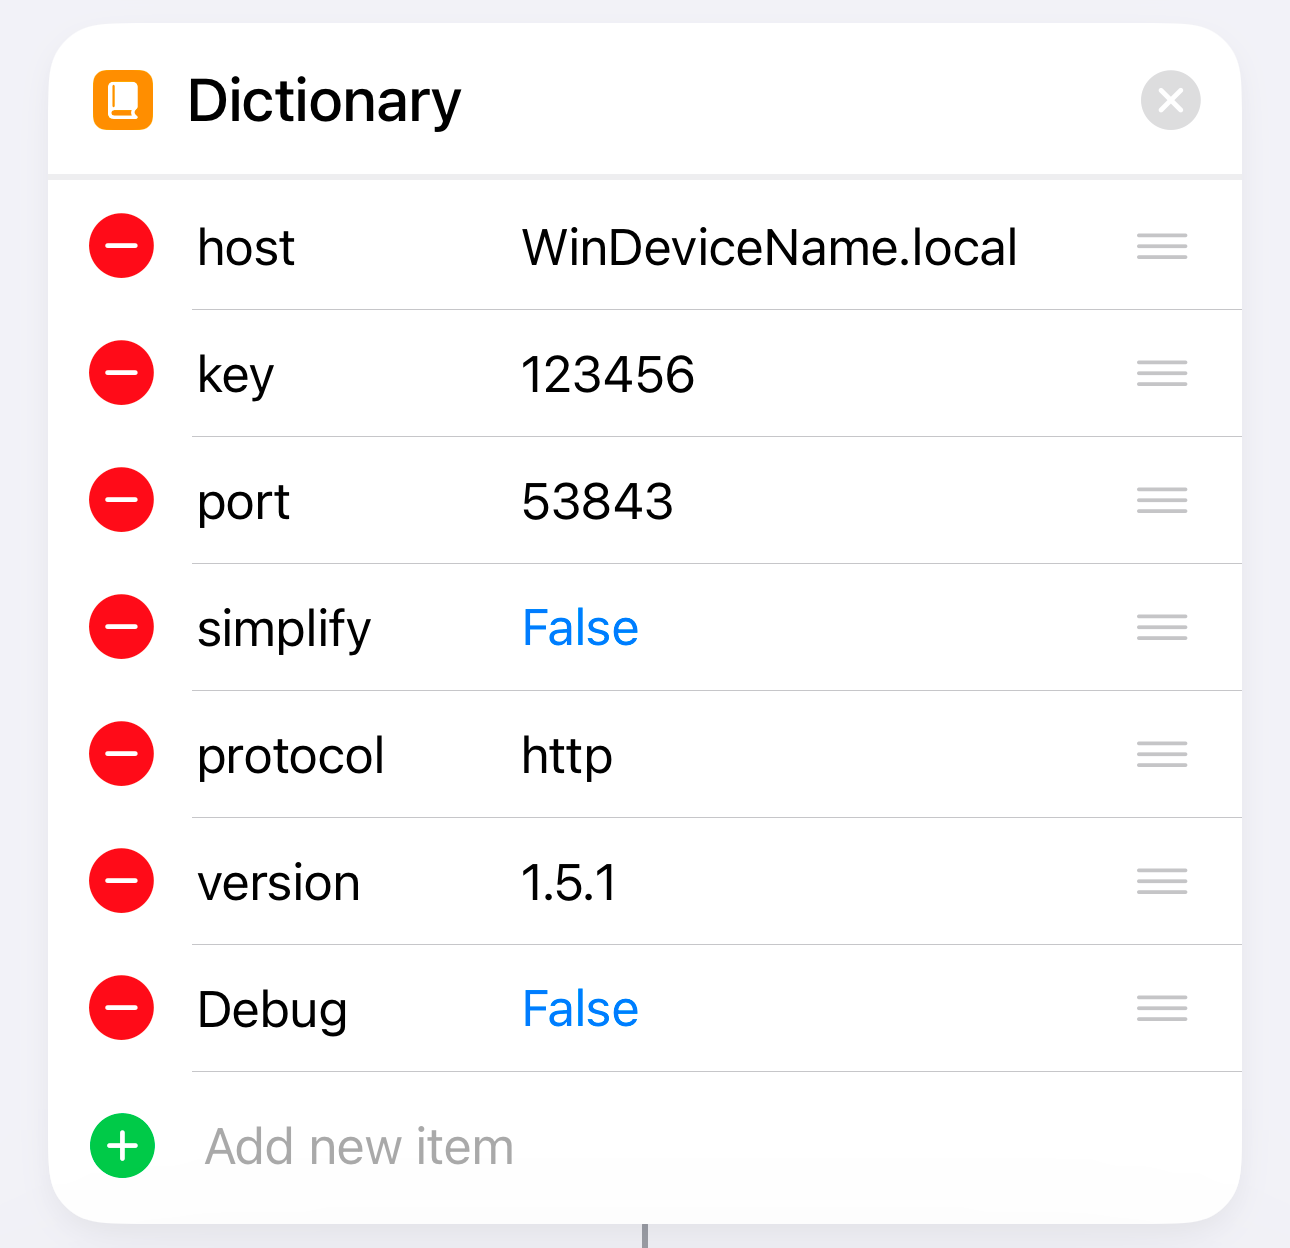
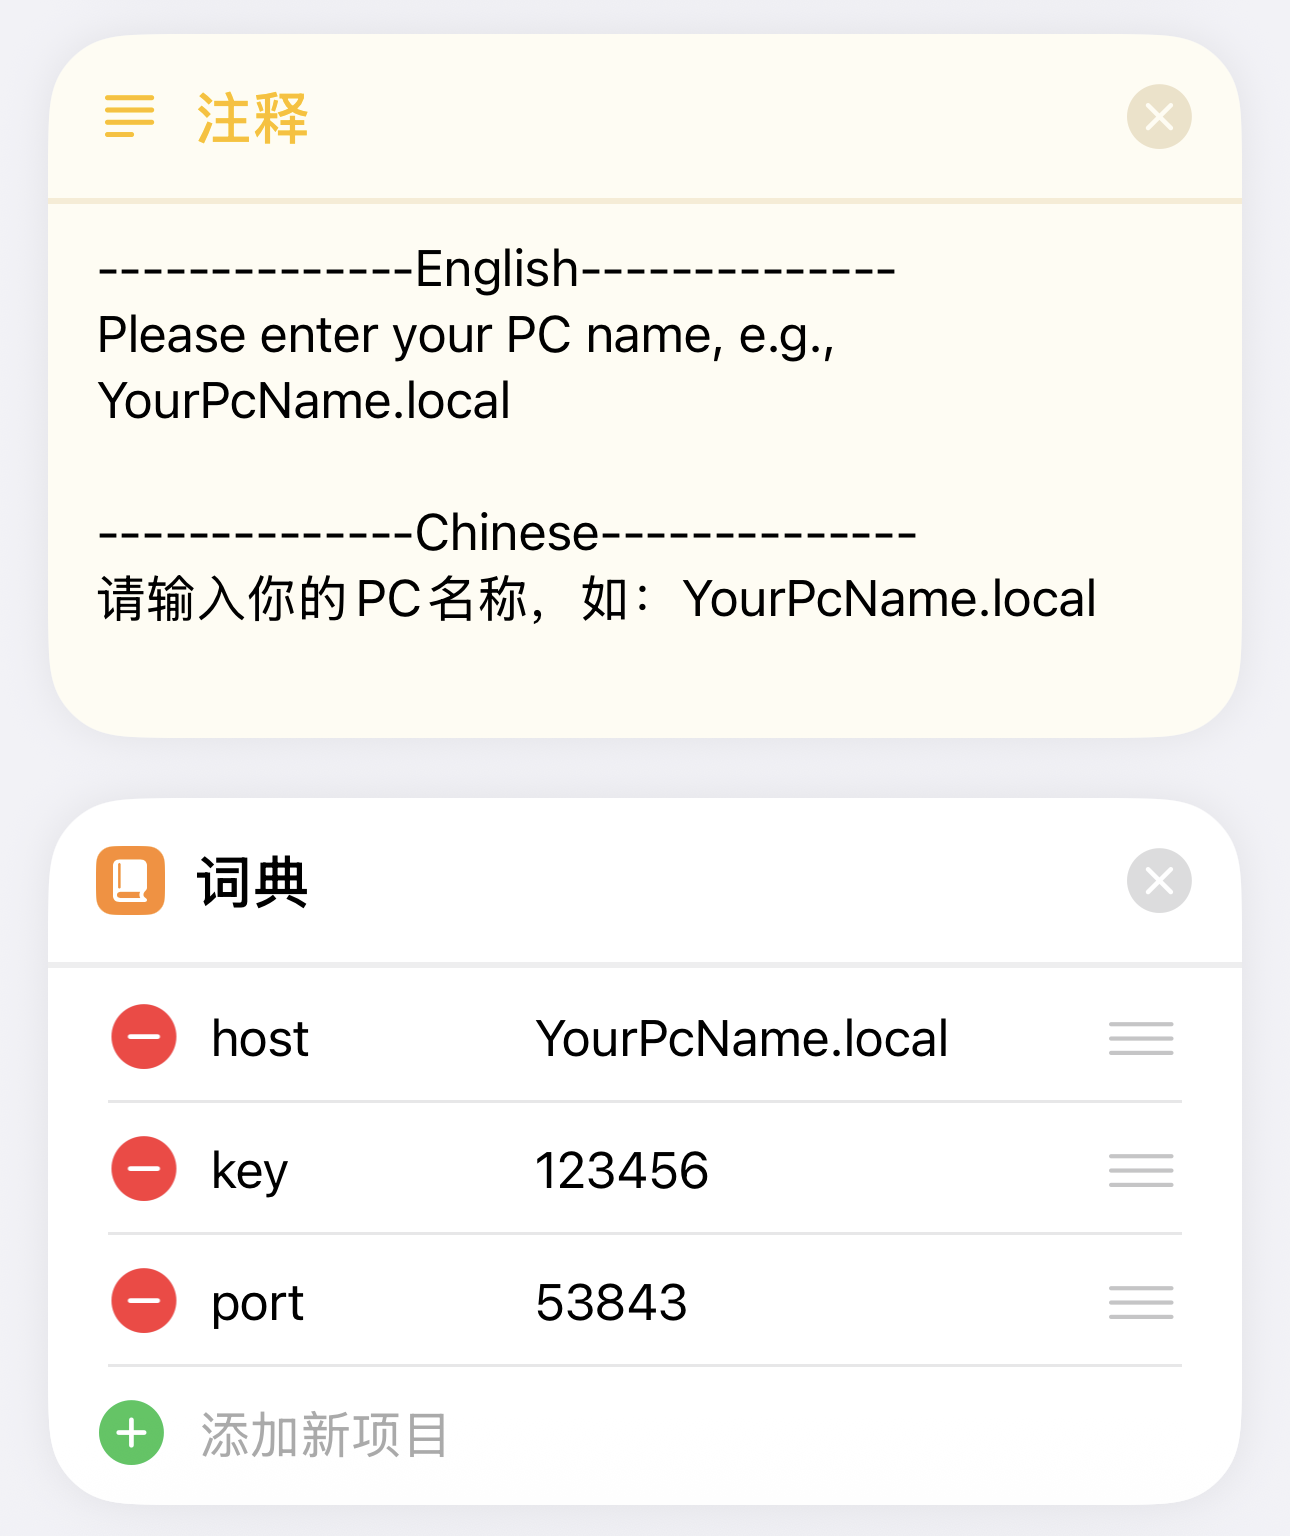
Update the shortcut to fix the issue with the clipboard when sending multiple information texts.

diff --git a/readme.md b/readme.md
@@ -51,27 +51,36 @@ python build.py
     - Right click on the tray icon and open the web configration with settings.
 4. Get the shortcut on your iPhone.
 
-   https://www.icloud.com/shortcuts/d8ba54ce9e674becaf951a076ac1d967
+   https://www.icloud.com/shortcuts/a8ed29739f194a04aa9b02e93ff8f896
       <div style="text-align:center;">
        <img src="pic/shortcut_QRCode.png" alt="Image" style="width: 35%;">
    </div>
 5. Set up the shortcut:
-   - host：'hostname.local' (or the host IP address instead)
+   - host：'hostname.local'
    - port：The same port as that in the PC-side settings
    - key：The same key as that in the PC-side settings
-   - simplify：Enabling this will disable the function to send the iOS clipboard
    <div style="text-align:center;">
        <img src="pic/shortcut_conf.png" alt="Image" style="width: 35%;">
+   </div>
+   If your PC does not support access via 'hostname.local', you can use the PC's IP address instead. Fill in the combinations of WiFi names and PC IP addresses for all your scenarios in the list below.
+   <div style="text-align:center;">
+       <img src="pic/shortcut_conf_2.png" alt="Image" style="width: 35%;">
    </div>
 6. Set the trigger method of the shortcut:
    1. Set it up in 'Settings-Accessibility-Touch-BackTap' to trigger with a double-tap on the back of the iPhone.
    2. The iPhone 15 Pro series can set it to trigger with the side button.
-7.Remove the limit on the number of files sent via Shortcuts (Not performing this setting will cause an error when sending multiple images)
-
+   3. Newer versions of iOS can add 'AirDrop Plus' shortcuts to the Control Center.
+7. Remove the limit on the number of files sent via Shortcuts (Not performing this setting will cause an error when sending multiple images)
   iPhone - Settings - App - Shortcuts - Advanced - Allow Sharing Large Amounts of Data
-7. Functionality Testing:
+8. Functionality Testing:
     - **Send files**:
-
+      Add the 'AirDrop Plus' shortcut to the file sharing menu.
+      <div style="text-align:center;">
+        <img src="pic/edit_actions.png" alt="Image" style="width: 35%;">
+      </div>
+      <div style="text-align:center;">
+        <img src="pic/edit_actions_2.png" alt="Image" style="width: 35%;">
+      </div>
       Tap the 'AirDrop Plus' shortcut from the file sharing menu.
       <div style="text-align:center;">
         <img src="pic/send_file.png" alt="Image" style="width: 35%;">
@@ -93,7 +102,7 @@ python build.py
 ### 1. Shortcut Timeout:
 1. Check if the local area network (LAN) environment is unobstructed. In campus network environments, communication with LAN devices may be prohibited.
 2. Check if the port in the PC-side settings is the same as that set in the shortcut commands.
-3. Ensure that the hostname set in the shortcut is consistent with **the PC's hostname** (the hostname should not be in Chinese). You can also try changing **hostname.local** to **IP address**.
+3. Ensure that the hostname set in the shortcut is consistent with **the PC's hostname** (the hostname should not be in Chinese and should not contain '-'). You can also try changing **hostname.local** to **IP address**.
 4. Check if the PC's firewall is blocking the port set in the **config.ini** file. Remove all entries related to AirDropPlus and restart AirDropPlus. After the restart, please allow the pop-up for network requests.
     <div style="text-align:center;">
       <img src="pic/firewall.png" alt="Image" style="width: 50%;">
@@ -104,13 +113,6 @@ python build.py
 1. It's possible that the PC's system version is too old to support interactive notifications. Try changing to basic notifications in the **config.ini** file.
     <div style="text-align:center;">
       <img src="pic/basic_notify.png" alt="Image" style="width: 40%;">
-    </div>
-
-### 3. The iPhone sent a Clipboard, but the PC received a file
-1. Up to now, the input type obtained via the shortcut depends on the language of the iOS device. I have only considered input types in English, Simplified Chinese, and Traditional Chinese. If your iOS device is set to another language, errors may occur.
-2. You can try adding the type name of 'Text' in your iOS device's language into the brackets, separated by '|'.
-    <div style="text-align:center;">
-      <img src="pic/shortcut_type.png" alt="Image" style="width: 50%;">
     </div>
 
 # API

diff --git a/readme_zh.md b/readme_zh.md
@@ -50,27 +50,36 @@ python build.py
 3. 设置 AirdropPlus
     - 右键托盘图标，打开网页设置进行配置
 4. 在 iPhone 上获取快捷指令
-   https://www.icloud.com/shortcuts/d8ba54ce9e674becaf951a076ac1d967
+   https://www.icloud.com/shortcuts/a8ed29739f194a04aa9b02e93ff8f896
    <div style="text-align:center;">
        <img src="pic/shortcut_QRCode.png" alt="Image" style="width: 35%;">
    </div>
 5. 设置快捷指令:
-   - host：'hostname.local' (或者 PC 的 IP 地址)
+   - host：'hostname.local'
    - port：和PC端设置中一样的 port
    - key：和PC端设置中一样的 key
-   - simplify：为 True 时禁用发送 iPhone 剪贴板的功能
    <div style="text-align:center;">
        <img src="pic/shortcut_conf.png" alt="Image" style="width: 35%;">
+   </div>
+   如果你的PC不支持 'hostname.local'访问，可以使用 PC 的 IP 地址替代。在下面这个列表中填写你所有场景下的wifi名称和PC的ip组合。
+   <div style="text-align:center;">
+       <img src="pic/shortcut_conf_2.png" alt="Image" style="width: 35%;">
    </div>
 6. 设置快捷指令触发方式:
    1. 在 '设置-辅助功能-触控-轻点背面' 中设置双击手机背面触发快捷指令。
    2. iPhone 15 Pro 系列可以通过侧边按钮触发。
+   3. 新版 iOS 可以在控制中心设置中添加 'AirDrop Plus' 快捷指令。
 7. 解除快捷指令发送文件数量限制（不进行该项设置会导致发送多张图片时报错）
-
    iPhone-设置-App-快捷指令-高级-允许共享大量数据
 8. 功能测试:
     - **发送文件**:
-
+      将 AriDrop Plus 快捷指令添加到共享菜单的个人收藏中。
+      <div style="text-align:center;">
+        <img src="pic/edit_actions.png" alt="Image" style="width: 35%;">
+      </div>
+      <div style="text-align:center;">
+        <img src="pic/edit_actions_2.png" alt="Image" style="width: 35%;">
+      </div>
       在共享菜单中点击 'AirDrop Plus'。
       <div style="text-align:center;">
         <img src="pic/send_file.png" alt="Image" style="width: 35%;">
@@ -92,7 +101,7 @@ python build.py
 ### 1. 快捷指令超时:
 1. 检查局域网是否通畅。校园网的局域网连接可能会被禁止。
 2. 检查PC端设置中的 port 是否和快捷指令中设置的相同。
-3. 确保快捷指令里设置的 **设备名.local** 正确 (设备名不能是中文). 可以尝试把 **设备名.local** 换成 **IP address** 试试。
+3. 确保快捷指令里设置的 **设备名.local** 正确 (设备名不能是中文，也最好不要加-). 可以尝试把 **设备名.local** 换成 **IP address** 试试。
 4. 检查 PC 端防火墙是否有禁用 **config.ini** 中设置的端口号。移除所有有关AirDropPlus的项目，再重启 AirDropPlus，在弹框中允许网络访问。
     <div style="text-align:center;">
       <img src="pic/firewall.png" alt="Image" style="width: 50%;">
@@ -103,13 +112,6 @@ python build.py
 1. 可能是 Windows 版本太低，不支持交互式通知。尝试在PC端设置中开启基本通知样式。
     <div style="text-align:center;">
       <img src="pic/basic_notify.png" alt="Image" style="width: 40%;">
-    </div>
-
-### 3. iPhone 发送了剪贴板，但 PC 收到一个文件
-1. 到目前为止，快捷指令获取的输入类型是依赖 iOS 系统语言的，我只考虑到了英语、简体中文、繁体中文。如果你的系统是其他语言的，可能会遇到问题。
-2. 你可以把你系统语言中的文本类型的名称加入到括号里，使用 '|' 隔开。
-    <div style="text-align:center;">
-      <img src="pic/shortcut_type.png" alt="Image" style="width: 50%;">
     </div>
 
 # API
